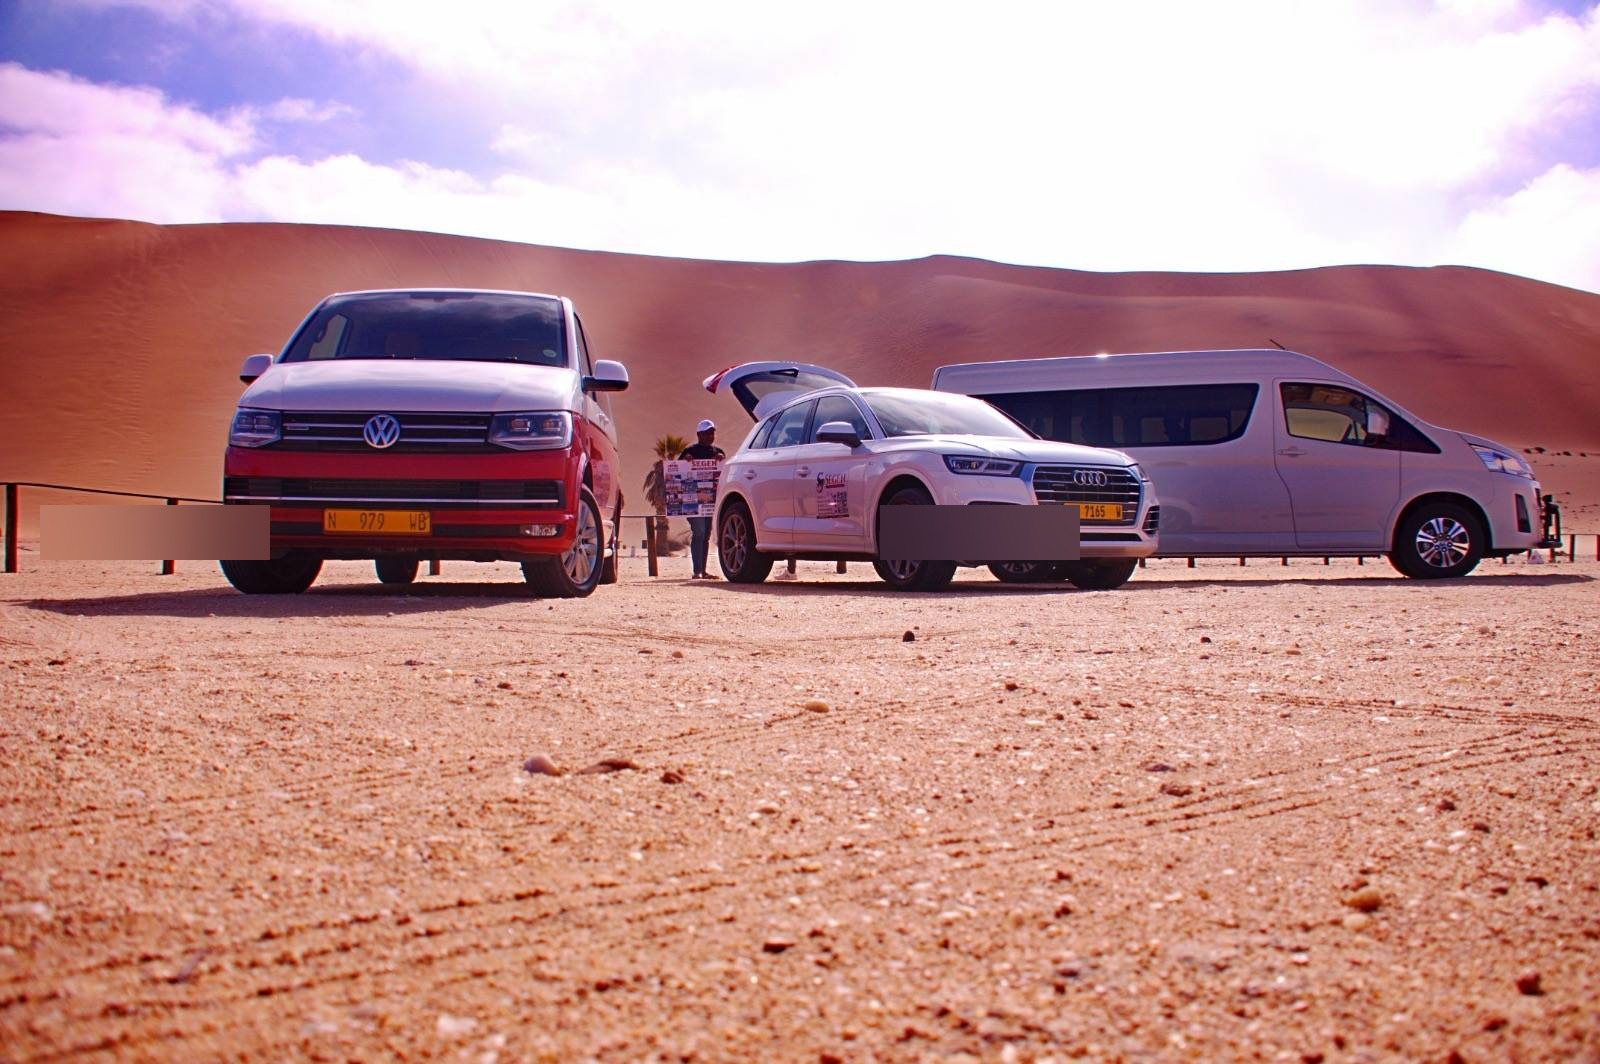
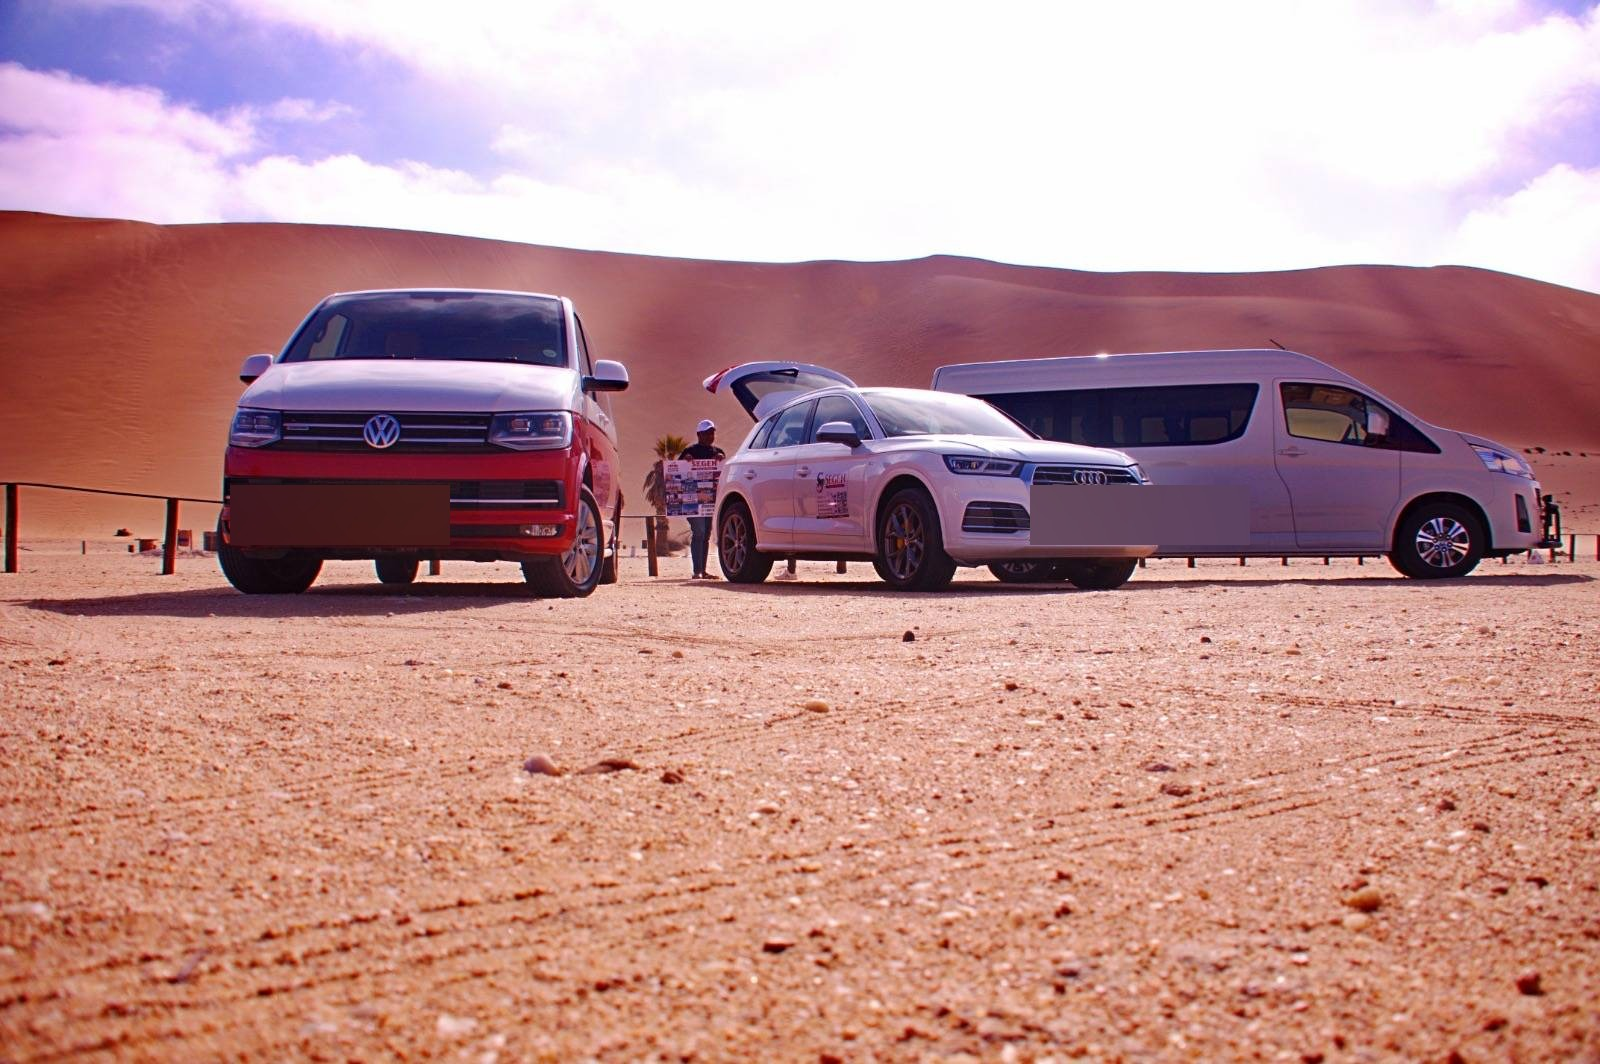
Fix plate blurs on all fleet images + add Namibia Tourism Board to footer
- Fixed desert-fleet-dunes.jpg plate blur (both VW and Audi plates)
- Blurred fleet-owner-thumbsup.jpg Audi plate
- Added Namibia Tourism Board as Proud Partner in footer on all 7 pages

Changed region(s): [[0.0312, 0.4342, 0.2812, 0.5273], [0.5312, 0.4342, 0.75, 0.5273]]

diff --git a/about.html b/about.html
@@ -319,6 +319,11 @@
           </div>
         </div>
       </div>
+      <div class="footer__partners" style="text-align: center; padding: 24px 0 20px; border-top: 1px solid rgba(255,255,255,0.1); margin-bottom: 16px;">
+          <p style="color: rgba(255,255,255,0.5); font-size: 0.8rem; text-transform: uppercase; letter-spacing: 1px; margin-bottom: 10px;">Proud Partner</p>
+          <a href="https://namibiatourism.com.na" target="_blank" rel="noopener" style="color: rgba(255,255,255,0.8); font-weight: 600; font-size: 0.95rem; text-decoration: none; display: inline-flex; align-items: center; gap: 8px;">Namibia Tourism Board</a>
+        </div>
+
       <div class="footer__bottom">
         <p class="footer__copyright">&copy; 2025 SEGEN Tours Transfers & Car Rentals. All rights reserved.</p>
         <div class="footer__bottom-links">

diff --git a/booking.html b/booking.html
@@ -444,6 +444,11 @@
           </div>
         </div>
       </div>
+      <div class="footer__partners" style="text-align: center; padding: 24px 0 20px; border-top: 1px solid rgba(255,255,255,0.1); margin-bottom: 16px;">
+          <p style="color: rgba(255,255,255,0.5); font-size: 0.8rem; text-transform: uppercase; letter-spacing: 1px; margin-bottom: 10px;">Proud Partner</p>
+          <a href="https://namibiatourism.com.na" target="_blank" rel="noopener" style="color: rgba(255,255,255,0.8); font-weight: 600; font-size: 0.95rem; text-decoration: none; display: inline-flex; align-items: center; gap: 8px;">Namibia Tourism Board</a>
+        </div>
+
       <div class="footer__bottom">
         <p class="footer__copyright">&copy; 2025 SEGEN Tours Transfers & Car Rentals. All rights reserved.</p>
         <div class="footer__bottom-links">

diff --git a/contact.html b/contact.html
@@ -308,6 +308,11 @@
           </div>
         </div>
       </div>
+      <div class="footer__partners" style="text-align: center; padding: 24px 0 20px; border-top: 1px solid rgba(255,255,255,0.1); margin-bottom: 16px;">
+          <p style="color: rgba(255,255,255,0.5); font-size: 0.8rem; text-transform: uppercase; letter-spacing: 1px; margin-bottom: 10px;">Proud Partner</p>
+          <a href="https://namibiatourism.com.na" target="_blank" rel="noopener" style="color: rgba(255,255,255,0.8); font-weight: 600; font-size: 0.95rem; text-decoration: none; display: inline-flex; align-items: center; gap: 8px;">Namibia Tourism Board</a>
+        </div>
+
       <div class="footer__bottom">
         <p class="footer__copyright">&copy; 2025 SEGEN Tours Transfers & Car Rentals. All rights reserved.</p>
         <div class="footer__bottom-links">

diff --git a/gallery.html b/gallery.html
@@ -505,6 +505,11 @@
           </div>
         </div>
       </div>
+      <div class="footer__partners" style="text-align: center; padding: 24px 0 20px; border-top: 1px solid rgba(255,255,255,0.1); margin-bottom: 16px;">
+          <p style="color: rgba(255,255,255,0.5); font-size: 0.8rem; text-transform: uppercase; letter-spacing: 1px; margin-bottom: 10px;">Proud Partner</p>
+          <a href="https://namibiatourism.com.na" target="_blank" rel="noopener" style="color: rgba(255,255,255,0.8); font-weight: 600; font-size: 0.95rem; text-decoration: none; display: inline-flex; align-items: center; gap: 8px;">Namibia Tourism Board</a>
+        </div>
+
       <div class="footer__bottom">
         <p class="footer__copyright">&copy; 2025 SEGEN Tours Transfers & Car Rentals. All rights reserved.</p>
         <div class="footer__bottom-links">

diff --git a/packages.html b/packages.html
@@ -432,6 +432,11 @@
           </div>
         </div>
       </div>
+      <div class="footer__partners" style="text-align: center; padding: 24px 0 20px; border-top: 1px solid rgba(255,255,255,0.1); margin-bottom: 16px;">
+          <p style="color: rgba(255,255,255,0.5); font-size: 0.8rem; text-transform: uppercase; letter-spacing: 1px; margin-bottom: 10px;">Proud Partner</p>
+          <a href="https://namibiatourism.com.na" target="_blank" rel="noopener" style="color: rgba(255,255,255,0.8); font-weight: 600; font-size: 0.95rem; text-decoration: none; display: inline-flex; align-items: center; gap: 8px;">Namibia Tourism Board</a>
+        </div>
+
       <div class="footer__bottom">
         <p class="footer__copyright">&copy; 2025 SEGEN Tours Transfers & Car Rentals. All rights reserved.</p>
         <div class="footer__bottom-links">

diff --git a/services.html b/services.html
@@ -361,6 +361,11 @@
           </div>
         </div>
       </div>
+      <div class="footer__partners" style="text-align: center; padding: 24px 0 20px; border-top: 1px solid rgba(255,255,255,0.1); margin-bottom: 16px;">
+          <p style="color: rgba(255,255,255,0.5); font-size: 0.8rem; text-transform: uppercase; letter-spacing: 1px; margin-bottom: 10px;">Proud Partner</p>
+          <a href="https://namibiatourism.com.na" target="_blank" rel="noopener" style="color: rgba(255,255,255,0.8); font-weight: 600; font-size: 0.95rem; text-decoration: none; display: inline-flex; align-items: center; gap: 8px;">Namibia Tourism Board</a>
+        </div>
+
       <div class="footer__bottom">
         <p class="footer__copyright">&copy; 2025 SEGEN Tours Transfers & Car Rentals. All rights reserved.</p>
         <div class="footer__bottom-links">

diff --git a/index.html b/index.html
@@ -534,6 +534,11 @@
         </div>
       </div>
 
+      <div class="footer__partners" style="text-align: center; padding: 24px 0 20px; border-top: 1px solid rgba(255,255,255,0.1); margin-bottom: 16px;">
+          <p style="color: rgba(255,255,255,0.5); font-size: 0.8rem; text-transform: uppercase; letter-spacing: 1px; margin-bottom: 10px;">Proud Partner</p>
+          <a href="https://namibiatourism.com.na" target="_blank" rel="noopener" style="color: rgba(255,255,255,0.8); font-weight: 600; font-size: 0.95rem; text-decoration: none; display: inline-flex; align-items: center; gap: 8px;">Namibia Tourism Board</a>
+        </div>
+
       <div class="footer__bottom">
         <p class="footer__copyright">&copy; 2025 SEGEN Tours Transfers & Car Rentals. All rights reserved.</p>
         <div class="footer__bottom-links">
